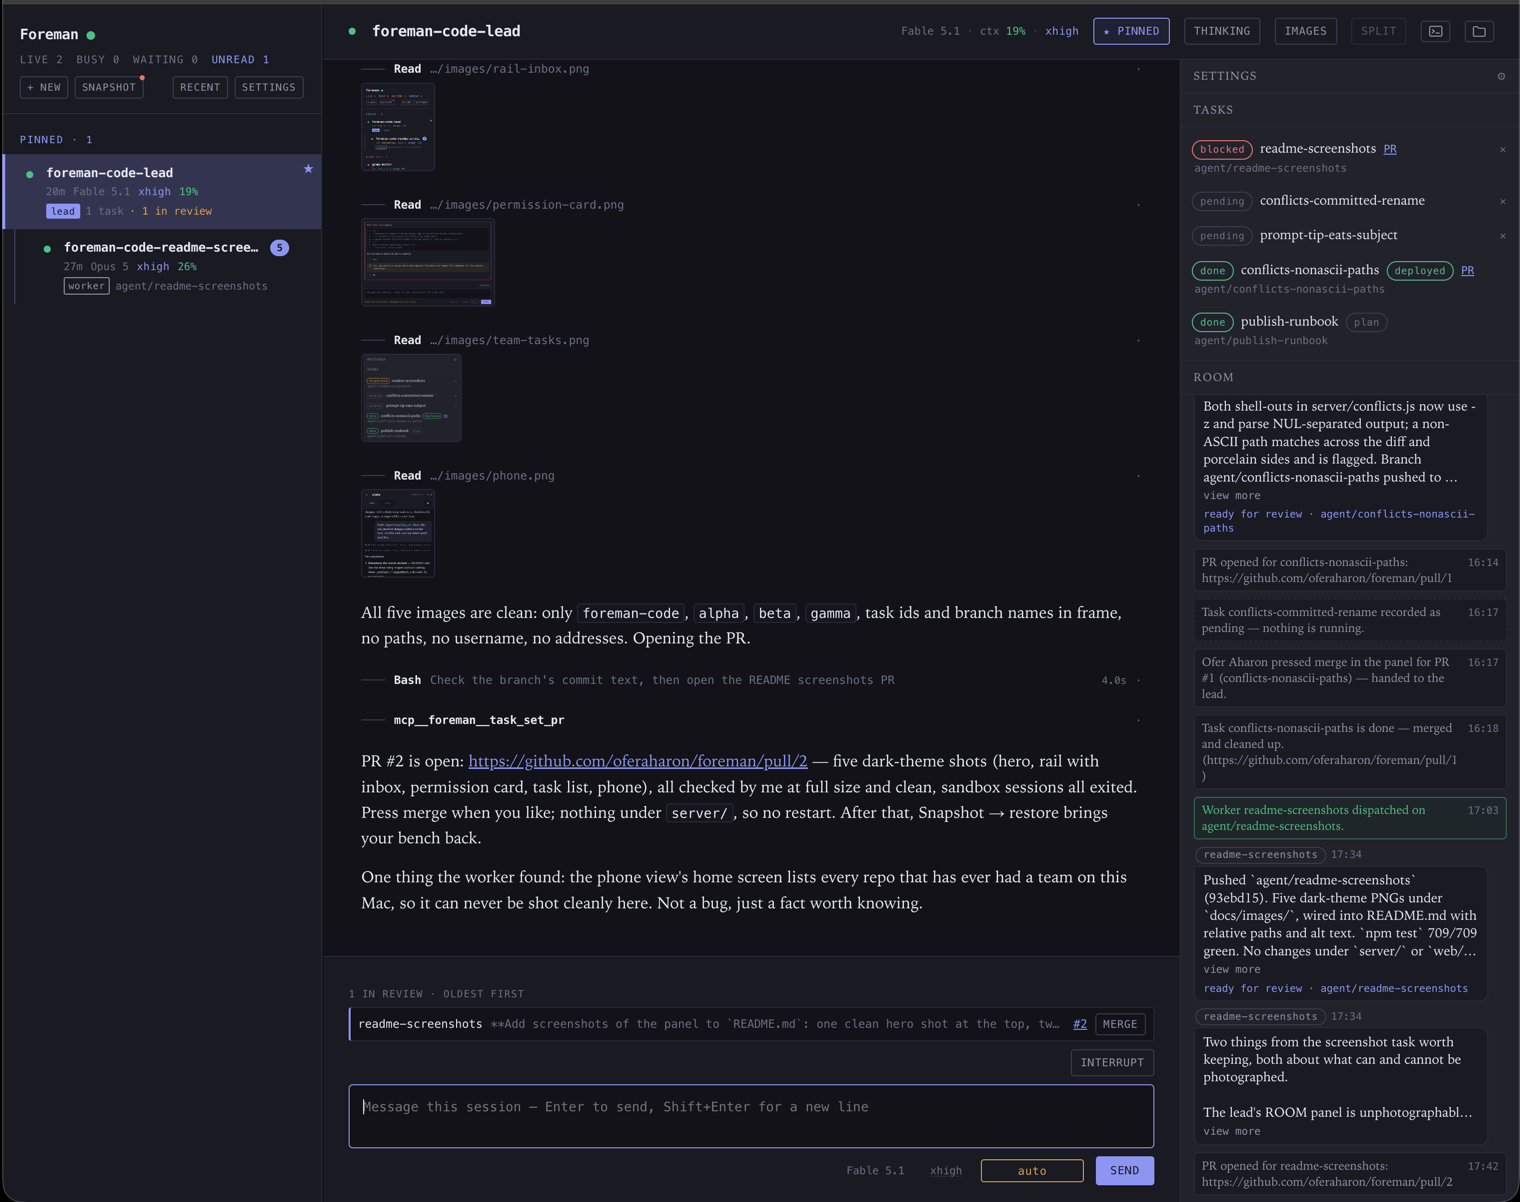
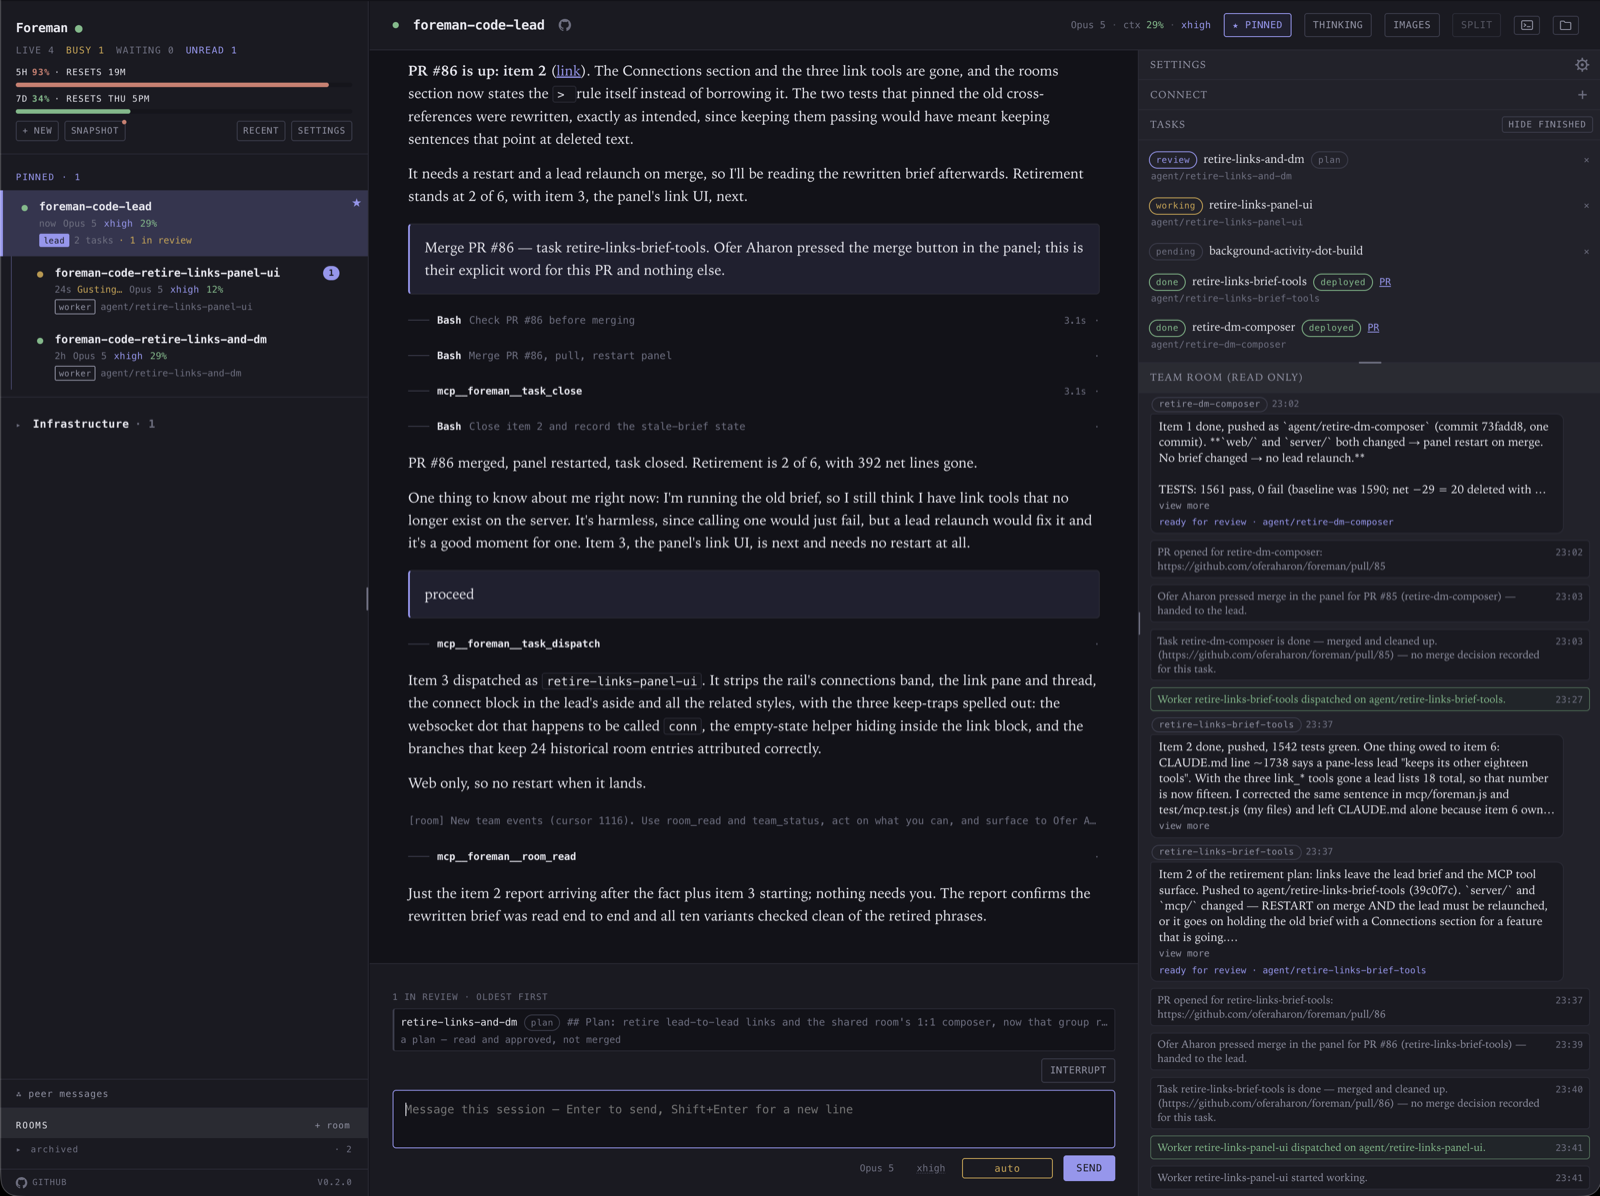
Swap the README's panel screenshot for a newer capture
Replace docs/images/panel.png with the maintainer's updated screenshot
(downscaled to 1600px wide) and rewrite the alt text to describe what
it actually shows.

Claude-Session: https://claude.ai/code/session_01Mc1EshSK3BhpTMypJm3xWK

Changed region(s): [[0.0, 0.0, 1.0, 1.0], [0.2164, 0.8043, 0.6184, 0.8662], [0.0, 0.8972, 0.0309, 1.0]]

diff --git a/README.md b/README.md
@@ -8,12 +8,12 @@ session you talk to that dispatches other sessions as workers, each in its own g
 worktree, and brings you only the decisions that need you.
 
 ![The panel in dark theme, open on a team lead. On the left, a rail: the lead pinned at the
-top, reading "1 task · 1 in review", with its worker nested underneath on branch
-agent/readme-screenshots. In the middle, the lead's transcript, tool calls folded into
-one-line chips, and above the composer a merge-queue row naming the one branch waiting on
-a decision with a MERGE button beside it. On the right, the team panel: a task list with
-one task blocked, two pending and two done — one of them marked deployed — and under it the
-room, the team's log of dispatches, reports and PRs.](docs/images/panel.png)
+top, with two workers nested underneath on their own agent branches, and below the rail a
+peer-messages row and a rooms band. In the middle, the lead's transcript, tool calls folded
+into one-line chips, and the composer beneath it. On the right, the team panel: a task list
+mixing review, working, pending and done rows, two of them marked deployed, and under it the
+team room, read only, showing worker reports as bubbles with the panel's own dispatch and
+merge lines running between them.](docs/images/panel.png)
 
 The panel is the whole product on its own; the team is the second chapter and every part of
 it is optional. Sessions can be started anywhere — a terminal, another tool — and, on
